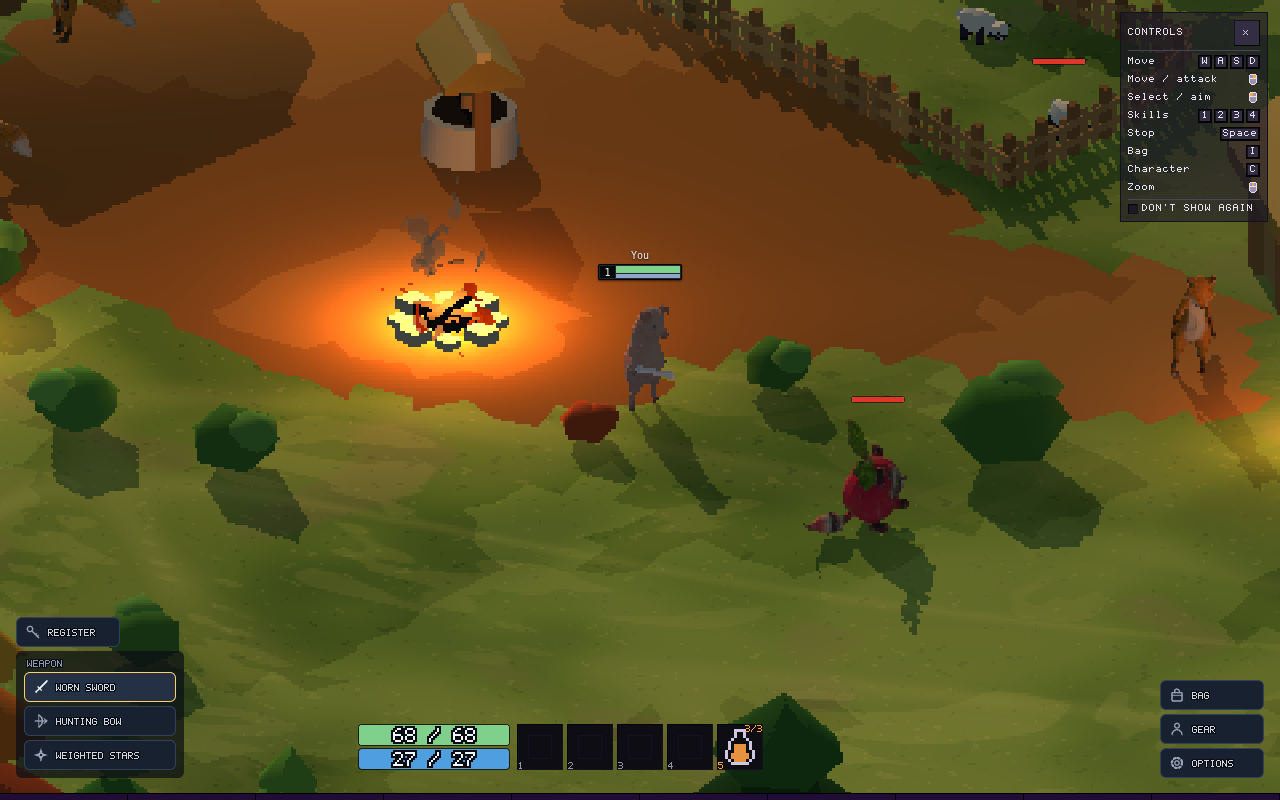
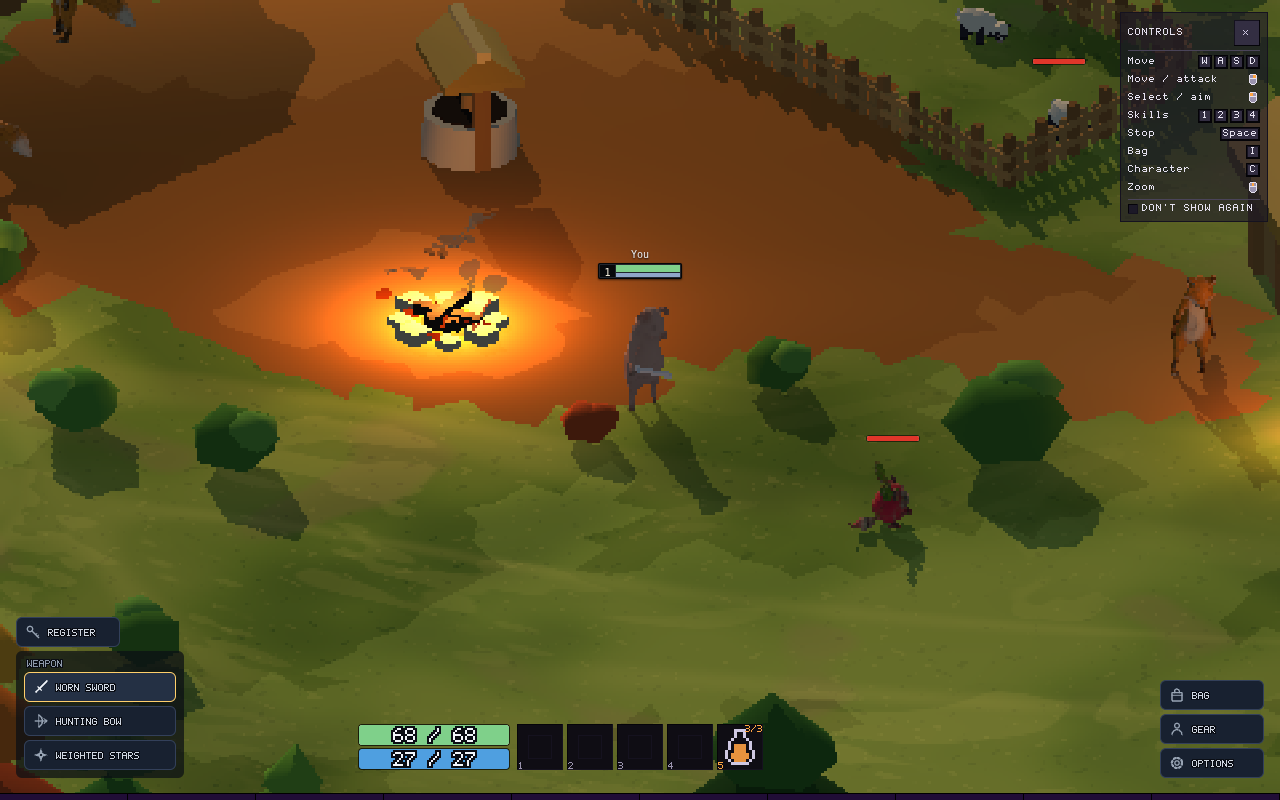
Draw the radish raccoon at 0.6, and follow it with the collider and the reach
It was drawn at exactly its own document's canonical height, which is the
height the renderer draws a *player* at -- so the animal that is meant to be
something you stumble over in a field stood eye to eye with the person
fighting it. `import.scale` is 0.6 of the height-matched number now: 33.39
world units against a body's 55.65.

Two sim numbers take the same factor, because the alternative is the failure
`small_spider` already states in its own comment -- a ring the drawn body does
not fill stops a small thing in doorways it visibly fits through.

  radius       20 -> 12   the ball reaches 10.7 from the root axis at the new
                          scale, measured off the mesh. The tail reaches 28.8
                          and the greens 16.2 and neither is a collider, for
                          the reason a sign's board and a grave's mound are
                          not one. 12 costs no nav grid: `ROUTING_RADII` is
                          per distinct radius and the sheep and the small
                          spider already pay for that one, so the set is the
                          same five it was.

  attackRange  55 -> 33   `withinReach` measures from this body's centre to
                          the target's surface, so a range is a claim about
                          this animal's limbs and its limbs are what shrank.
                          Deliberately not kept at the small spider's 55 on
[…]

diff --git a/src/server/data/monsters.ts b/src/server/data/monsters.ts
@@ -466,11 +466,19 @@ const AUTHORED: readonly AuthoredMonster[] = [
     // row is the whole of putting it in the editor.
     id: 'radish_raccoon',
     name: 'Radish Raccoon',
-    // 20 rather than the 16 its own body measures, because `ROUTING_RADII`
-    // builds one nav grid per *distinct* radius at boot and 20 is one three
-    // other rows already pay for. The drawn ball is about 31 units across, so a
-    // 20 ring is the body plus a little, which is the band a collider wants.
-    radius: 20,
+    // The drawn body, plus a little. Measured off the mesh at the unit's own
+    // import scale, the ball reaches 10.7 units from the root axis -- the tail
+    // reaches 28.8 and the greens 16.2, and neither is a collider, for the
+    // reason the sign's board and the grave's mound are not one either.
+    //
+    // It was 20 against a body of 17.9 when the unit was drawn at a player's
+    // height, and both halves fell by the same 0.6 when the drawing did, which
+    // is the point: a ring the drawn body does not fill stops a small thing in
+    // doorways it visibly fits through (`small_spider` says the same in its own
+    // comment). 12 also costs nothing -- `ROUTING_RADII` builds one nav grid per
+    // *distinct* radius at boot, and the sheep and the small spider already pay
+    // for that one.
+    radius: 12,
     // Above the sheep's 5 and the grazer's 8, because unlike either of them it
     // fights back and the kill has to be worth walking over to.
     experience: 10,
@@ -495,10 +503,23 @@ const AUTHORED: readonly AuthoredMonster[] = [
       // which is not a threat and is not meant to be -- what it is, is the
       // difference between hitting something and hitting scenery.
       attackDamage: 1,
-      // Shorter than the grazer's 60 on a body of about the same size, because
-      // this one's reach is two mittens: the attack clip's paws travel about 14
-      // units past the body and the range says so.
-      attackRange: 55,
+      // 55 x 0.6, the one factor the radius above took: `withinReach` measures
+      // from this body's centre to the target's *surface*, so a range is a claim
+      // about this animal's own limbs, and its limbs are what shrank.
+      //
+      // Deliberately *not* kept at the small spider's 55 on the same 12 radius.
+      // That one is a body whose legs genuinely span about 45 units from its
+      // centre; this one's reach is two mittens that stop 8.3 out, at the front
+      // of the drawn ball, so the number the two rows shared was a coincidence.
+      //
+      // What scaling it buys is the *absolute* gap rather than a proportional
+      // one, and that is the honest way round: `standoffFrom` walks the body to
+      // `(33 + 16) * 0.8`, so it stops 12.5 units of air short of a player where
+      // 55 stopped it 22.9 short. Against its own body that is 0.58 body widths
+      // against 0.64 -- barely moved, because the player's radius is half the
+      // sum and did not shrink. Twelve units of air is simply less to look at
+      // than twenty-three.
+      attackRange: 33,
       baseAttackTimeTicks: seconds(1.5),
       ...NO_ATTACK_SPEED,
       armor: 0,

diff --git a/CLAUDE.md b/CLAUDE.md
@@ -1137,6 +1137,22 @@ src/units/       the unit authoring format and its validator (spec 107): the thr
                  either side, because there is no torso to bend -- `lean` turns
                  the whole creature, and past about ten degrees a pounce becomes
                  a topple with the face going into the ground.
+                 It is drawn at **0.6 of the height its own document asks
+                 for**, and the two sim numbers underneath it took the same
+                 factor. `canonicalHeight` is the height the renderer draws a
+                 *player* at, so an import scale that honours it exactly -- which
+                 is what the measured 55.7589 is -- gives a raccoon as tall as
+                 the person fighting it; 33.4553 draws it 33.39 units tall
+                 instead. The collider went 20 to 12 and the reach 55 to 33,
+                 because the alternative is `small_spider`'s own stated failure
+                 one row along: a ring the drawn body does not fill stops a small
+                 thing in doorways it visibly fits through. 12 is free, being a
+                 radius the sheep and the small spider already pay a nav grid
+                 for. What it is deliberately **not** is that spider's 55 on the
+                 same radius -- that body's legs genuinely span 45 units from its
+                 centre, and this one's reach is two mittens that stop 8.3 out,
+                 at the front of the drawn ball, so the number they share was a
+                 coincidence rather than a precedent.
                  It is a **monster row** since the same spec: `radish_raccoon`
                  in `data/monsters.ts`, `defensive`, 8 health and 1 damage. That
                  temperament is the whole of "non-aggressive" as that table can
